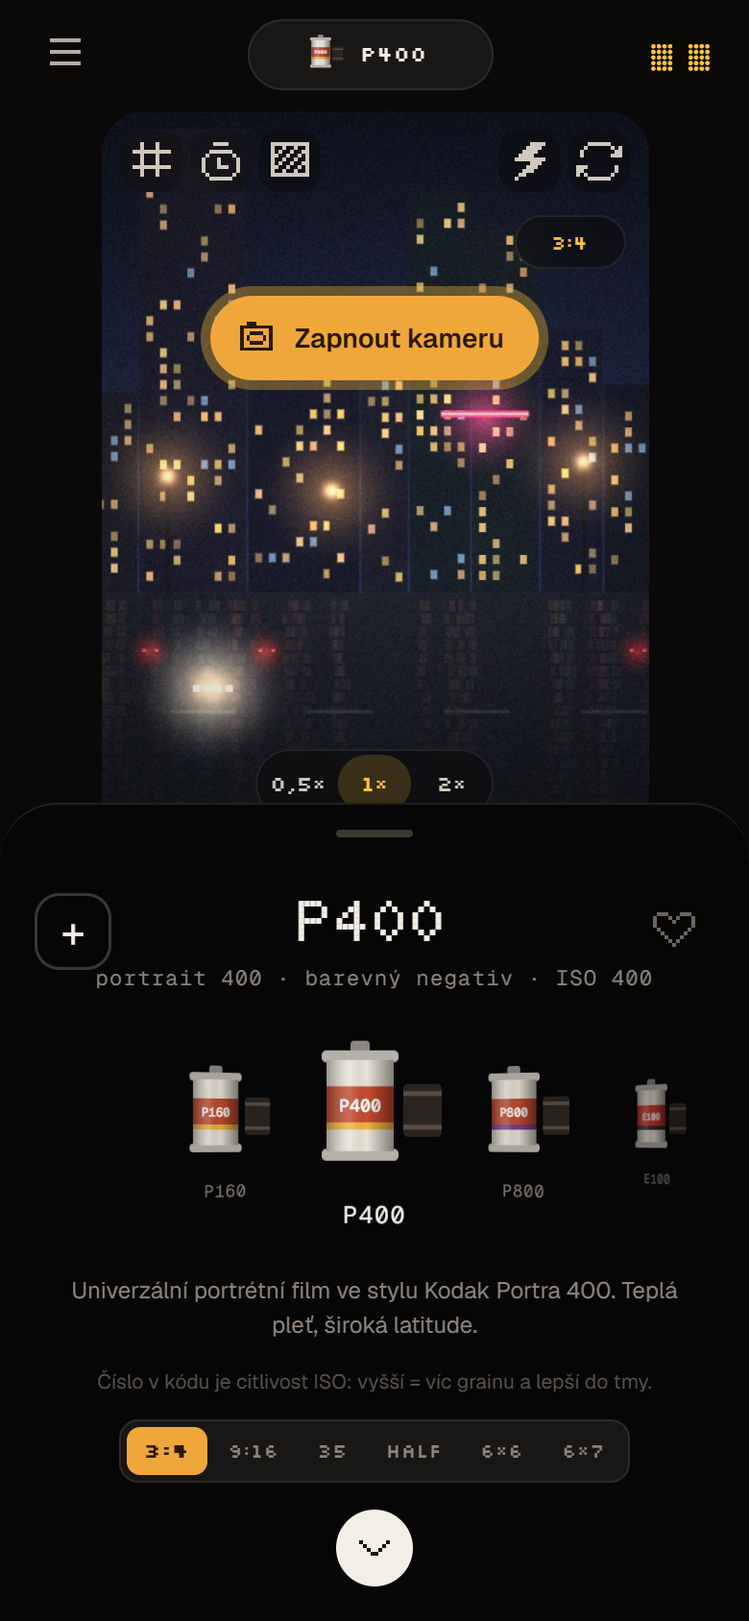
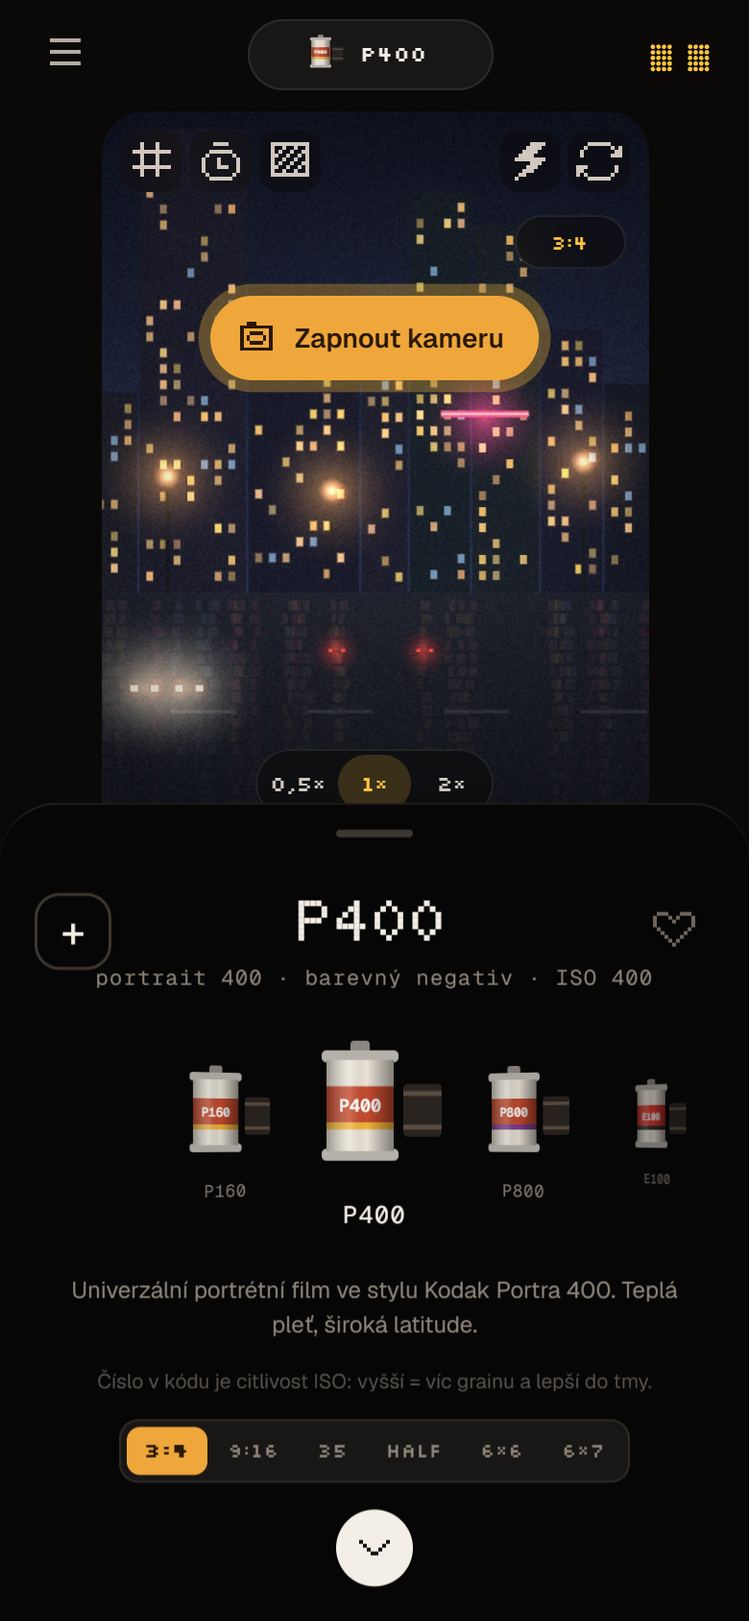
Náhled 0.16: posuvníky (scroll, tažení, dvojťuk), viditelná halation, IR bez ořezu světel, LiDAR video s postupem, uložit film jako variantu, přechody panelu

diff --git a/docs/preview/index.html b/docs/preview/index.html
@@ -135,6 +135,7 @@ a{color:var(--amber)}
 .fxp .sq{width:34px;height:34px;flex:none;border-radius:10px;border:1px solid var(--line);color:var(--fg);font-size:14px;display:grid;place-items:center}
 .fxh b{font-family:var(--f-mono);font-size:11px;letter-spacing:.16em;color:#cfc7bc;font-weight:500}
 .fxh .ib{width:34px;height:34px}
+.fpbtns{justify-self:end;display:flex;gap:6px}.fpbtns .off.sq{width:30px;padding:0;display:grid;place-items:center}.fpbtns .px{width:16px;height:16px}
 .fxh .off{height:30px;padding:0 12px;border-radius:10px;border:1px solid var(--line);font-size:12px;color:#cfc7bc}
 .fxrow{display:flex;align-items:center;gap:8px;min-height:34px;flex:none}
 .fxrow .hs{display:flex;gap:6px;overflow-x:auto;flex:1;min-width:0}
@@ -459,14 +460,21 @@ a{color:var(--amber)}
 .hsldots button.on{box-shadow:0 0 0 2px var(--panel),0 0 0 4px var(--fg)}
 .srow{display:grid;grid-template-columns:84px 1fr 40px;align-items:center;gap:10px;font-size:12px;color:#bdb5aa;height:32px}
 .srow output{font-family:var(--f-mono);font-size:11px;text-align:right;color:var(--fg);font-variant-numeric:tabular-nums}
-input[type=range]{-webkit-appearance:none;appearance:none;width:100%;height:34px;background:transparent;margin:0;cursor:pointer;touch-action:none;-webkit-user-select:none;user-select:none;--lo:0%;--hi:0%;
-  --trk:linear-gradient(90deg,#2f2b27 var(--lo),var(--amber) var(--lo),var(--amber) var(--hi),#2f2b27 var(--hi))}
-input[type=range]::-webkit-slider-runnable-track{height:2px;border-radius:2px;background:var(--trk)}
-input[type=range]::-moz-range-track{height:2px;border-radius:2px;background:var(--trk)}
-input[type=range]::-webkit-slider-thumb{-webkit-appearance:none;width:12px;height:24px;border-radius:6px;background:#f3eee6;margin-top:-11px;box-shadow:0 0 0 3px rgba(18,17,16,.9),0 2px 8px rgba(0,0,0,.6);transition:transform .15s}
-input[type=range]::-moz-range-thumb{width:8px;height:20px;border:0;border-radius:4px;background:#f3eee6;box-shadow:0 0 0 3px rgba(18,17,16,.9)}
-input[type=range]:active::-webkit-slider-thumb{transform:scaleY(1.15);background:var(--amber)}
-input[type=range]:hover::-webkit-slider-thumb{background:#fff}
+input[type=range]{-webkit-appearance:none;appearance:none;width:100%;height:34px;background:transparent;margin:0;pointer-events:none;touch-action:pan-y;-webkit-user-select:none;user-select:none;--lo:0%;--hi:0%;
+  --trk:linear-gradient(90deg,rgba(255,255,255,.08) var(--lo),var(--amber) var(--lo),var(--amber) var(--hi),rgba(255,255,255,.08) var(--hi))}
+input[type=range]::-webkit-slider-runnable-track{height:4px;border-radius:4px;background:var(--trk);box-shadow:inset 0 1px 1px rgba(0,0,0,.45)}
+input[type=range]::-moz-range-track{height:4px;border-radius:4px;background:var(--trk)}
+input[type=range]::-webkit-slider-thumb{-webkit-appearance:none;width:20px;height:20px;border-radius:50%;margin-top:-8px;background:radial-gradient(circle at 50% 32%,#fffaf2,#e2dacd 72%);
+  box-shadow:0 0 0 1px rgba(0,0,0,.4),0 3px 10px rgba(0,0,0,.55),inset 0 -1px 1px rgba(0,0,0,.18);transition:transform .22s cubic-bezier(.3,1.7,.5,1),box-shadow .22s}
+input[type=range]::-moz-range-thumb{width:20px;height:20px;border:0;border-radius:50%;background:#f3eee6;box-shadow:0 0 0 1px rgba(0,0,0,.4),0 3px 10px rgba(0,0,0,.55)}
+input[type=range].drag::-webkit-slider-thumb{transform:scale(1.16);box-shadow:0 0 0 5px rgba(255,196,61,.18),0 0 16px rgba(255,196,61,.4),0 3px 10px rgba(0,0,0,.55)}
+.srow:hover input[type=range]::-webkit-slider-thumb{background:radial-gradient(circle at 50% 32%,#fff,#efe8dc 72%)}
+.srow{-webkit-user-select:none;user-select:none;-webkit-touch-callout:none;touch-action:pan-y;cursor:default}
+.srow:has(input[type=range]){cursor:ew-resize}
+.srow>span{white-space:nowrap;overflow:hidden;text-overflow:ellipsis;transition:color .2s}
+.srow output{transition:color .2s}
+.srow.drag>span,.srow.drag output{color:var(--amber)}
+.fxp .srow.fk{grid-template-columns:96px 1fr 34px}
 .wheels{display:grid;grid-template-columns:repeat(3,1fr);gap:8px;text-align:center}
 .wheel{position:relative;width:100%;aspect-ratio:1;border-radius:50%;touch-action:none;cursor:crosshair;
   background:radial-gradient(circle,#2a2622 0 8%,transparent 70%),conic-gradient(from 90deg,#e04848,#e0c048,#58d058,#48c8e0,#5058e0,#d048d0,#e04848);}
@@ -595,6 +603,7 @@ body > .xmod{position:fixed}
 .xh b{font:500 11px var(--f-mono);letter-spacing:.18em;text-transform:uppercase;color:#cfc7bc}
 .xh span{font:500 12px var(--f-mono);color:var(--mute);font-variant-numeric:tabular-nums}
 .xph{height:200px;border-radius:14px;background:#0b0a09;display:grid;place-items:center;overflow:hidden}
+.xph canvas{max-width:100%;max-height:100%;border-radius:6px;box-shadow:0 10px 30px rgba(0,0,0,.5)}
 .xph img{max-width:100%;max-height:100%;border-radius:6px;transition:opacity .25s;box-shadow:0 10px 30px rgba(0,0,0,.5)}
 .xbar{height:4px;border-radius:2px;background:#2a2622;overflow:hidden}
 .xbar i{display:block;height:100%;width:0;background:var(--amber);box-shadow:0 0 12px rgba(255,196,61,.7);transition:width .35s cubic-bezier(.3,.9,.4,1)}
@@ -1374,6 +1383,8 @@ vec3 hsv2rgb(vec3 c){ vec3 p=abs(fract(c.xxx+vec3(1.,2./3.,1./3.))*6.-3.); retur
 float luma(vec3 c){ return dot(c, vec3(.2126,.7152,.0722)); }
 vec2 qToUv(vec2 q){ float cs = cos(uRot), sn = sin(uRot); vec2 ts0 = vec2(textureSize(uTex,0)); float sar = ts0.x/ts0.y; vec2 v0 = q * uCover / uZoom; v0.x *= sar; v0 = mat2(cs,-sn,sn,cs) * v0; v0.x /= sar; return v0 + .5 + uOff; } // otočení bez zkosení
 /* zjednodušený vzhled pro rozmazané vrstvy (glow): stejné základní úpravy a film jako fotka, ať záře má barvy upravené fotky */
+float shd1(float v){ return min(v, .62) + .36 * (1. - exp(-max(v - .62, 0.) / .36)); } // měkké rameno: světla se plynule stáčí k bílé, neořežou se
+vec3 shd(vec3 v){ return vec3(shd1(v.r), shd1(v.g), shd1(v.b)); }
 vec3 lookOf(vec3 s){ vec3 l = pow(max(s, 0.), vec3(2.2)) * exp2(uExp) * vec3(1.+uTemp*.22, 1.+uTint*.1, 1.-uTemp*.22); vec3 c = pow(l/(1.+l*.06*uStr), vec3(1./2.2));
   c = (c-.5)*(1.+uCon*.55)+.5; c = mix(vec3(luma(c)), c, 1.+uSat); vec3 f = c;
   if (uLut > .5) f = texture(uLut3, clamp(f,0.,1.)*(32./33.) + .5/33.).rgb; if (uBW.r + uBW.g + uBW.b > .01) f = vec3(dot(clamp(f,0.,1.), uBW)) * uBTone;
@@ -1404,9 +1415,21 @@ void main(){
   if (uDOn > .5 && uDMode > 1.5 && uDMode < 2.5) { float fg = pow(clamp((uFocus - dep) / max(uFocus, .05), 0., 1.), 1.15) * uDAmt; lin = mix(lin, vec3(.74,.76,.8) * exp2(uExp) * .85, fg); } // mlha do hloubky
   /* halation = červenooranžová záře kolem světel (odraz od podložky filmu), bloom = měkká bílá záře světel */
   vec3 b1 = pow(textureLod(uTex,uv,3.).rgb, vec3(2.2)), b2 = pow(textureLod(uTex,uv,5.).rgb, vec3(2.2)), b3 = pow(textureLod(uTex,uv,6.5).rgb, vec3(2.2));
-  float hl = max(luma(b1)-.42,0.)*1.4 + max(luma(b2)-.3,0.)*1.9;
-  if (uDOn > .5 && uDMode > 2.5 && uDMode < 3.5) { float dl = textureLod(uDepth, uv, 3.5).r; hl *= smoothstep(uFocus, uFocus - .3, dl) * (1. + uDAmt * 2.5); } // halation jen u vzdálených světel
-  lin += vec3(1.,.26,.07)*hl*1.1 * uHal * exp2(uExp);
+  bool dHal = uDOn > .5 && uDMode > 2.5 && uDMode < 3.5;
+  if (uHal > .001 || dHal) { /* halation: nejdřív práh (jen opravdová světla), pak rozmazání – 3 prstence vzorků kolem pixelu;
+       mipmapa by malá světla (lampy, slunce v listí) rozmazala pod práh a záře by zmizela */
+    vec2 tsz = vec2(textureSize(uTex,0)), ak = vec2(tsz.y / tsz.x, 1.); float hr = 0.;
+    float L1 = log2(max(1., .007 * tsz.y)), L2 = log2(max(1., .017 * tsz.y)), L3 = log2(max(1., .04 * tsz.y)); // rozmazání vzorku ≈ rozestup vzorků → hladká záře bez „duchů“
+    float jr = hash(floor(uv * tsz)) * .6283; // náhodné natočení prstenců na pixel → žádné tečky po vzorcích
+    for (int i = 0; i < 10; i++) { float a = float(i) * .6283 + jr; vec2 d = vec2(cos(a), sin(a)) * ak, e = vec2(cos(a + .314), sin(a + .314)) * ak;
+      hr += smoothstep(.4, .9, luma(pow(textureLod(uTex, uv + d * .01, L1).rgb, vec3(2.2)))) * .5
+          + smoothstep(.34, .85, luma(pow(textureLod(uTex, uv + e * .024, L2).rgb, vec3(2.2)))) * .38
+          + smoothstep(.28, .8, luma(pow(textureLod(uTex, uv + d * .055, L3).rgb, vec3(2.2)))) * .26; }
+    hr /= 10.; float self = smoothstep(.4, .9, luma(pow(textureLod(uTex, uv, .5).rgb, vec3(2.2))));
+    float hl = max(hr - self * 1.05, 0.) + hr * .06; // záře kolem světla, samotné světlo (a velké světlé plochy) se nepřebarví
+    vec3 hcol = vec3(1., .2, .04) * exp2(uExp);
+    if (dHal) { float dl = textureLod(uDepth, uv, 3.5).r, far = smoothstep(uFocus, uFocus - .3, dl); hl *= far; lin += hcol * hl * (1. + uDAmt * 5.); } // halation jen u vzdálených světel
+    lin += hcol * hl * 5.5 * uHal; }
   lin += (max(b1-.35,0.)*.7 + max(b2-.22,0.)*1.1 + max(b3-.15,0.)*1.3) * uBloom * 1.6 * exp2(uExp);
   vec3 c = pow(lin/(1.+lin*.06*uStr), vec3(1./2.2)); // jemné stažení světel jen s filmem
   c = (c-.5)*(1.+uCon*.55)+.5;
@@ -1414,21 +1437,21 @@ void main(){
   vec3 f = c; float fl = clamp(luma(f),0.,1.);
   if (uIR > .5) { /* infra: odhad odrazivosti v IR (zeleň silně, nebe a voda slabě, oblaka a bílá vysoko) – plynulé váhy, žádné ostré masky
        barevné varianty = CIR jako Aerochrome: zobrazená červená = IR, zelená = viditelná červená, modrá = viditelná zelená */
-    vec3 x = clamp(f, 0., 1.); float lx = luma(x), sat0 = max(x.r, max(x.g, x.b)) - min(x.r, min(x.g, x.b));
+    vec3 x = shd(max(f, 0.)); float lx = luma(x), sat0 = max(x.r, max(x.g, x.b)) - min(x.r, min(x.g, x.b));
     float veg = smoothstep(-.02, .14, x.g - .5 * (x.r + x.b)) * smoothstep(.0, .16, sat0) + smoothstep(.0, .2, .5 * (x.r + x.g) - x.b) * smoothstep(.06, .3, sat0) * .45 * (1. - smoothstep(.0, .2, x.r - x.g)); veg = clamp(veg, 0., 1.);
     float blu = smoothstep(-.02, .2, x.b - .5 * (x.r + x.g)) * (1. - smoothstep(.72, .97, lx));          // modrá (nebe, voda) – v IR tmavá, oblaka ne
-    float ir = clamp(lx * .78 + veg * (.42 + .5 * lx) - blu * .32, 0., 1.);
+    float ir = shd1(max(lx * .78 + veg * (.42 + .5 * lx) - blu * .32, 0.));
     /* barví se jen to, co infra opravdu mění: listí a tráva (vysoká odrazivost) → červená, modrá → tyrkys, oblaka bílá, zbytek jen ztlumený */
     vec3 base = mix(vec3(lx), x, .45) * vec3(1.03, .97, .98);
     vec3 fol = mix(vec3(.78, .05, .12), vec3(1., .42, .46), smoothstep(.45, 1., ir)) * (.55 + .5 * ir);
     vec3 sk = vec3(.22, .64, .66) * (.55 + .55 * lx);
     vec3 cir = mix(base, fol, veg); cir = mix(cir, sk, blu * (1. - veg));
     if (uIR < 1.5) f = mix(cir, vec3(1., .88, .92), .32) * .9 + .07;                                         // IR: pastelová růžová
-    else if (uIR < 2.5) { float g = clamp(ir * 1.08 - blu * .2, 0., 1.); f = vec3(g * g * (3. - 2. * g) * .35 + g * .65); } // IR400: ČB, Woodův efekt
+    else if (uIR < 2.5) { float g = shd1(max(ir * 1.08 - blu * .2, 0.)); f = vec3(g * g * (3. - 2. * g) * .35 + g * .65); } // IR400: ČB, Woodův efekt
     else if (uIR < 3.5) f = cir;                                                                             // IRC: sytá červená infra
-    else { float g = clamp(ir * 1.05 - blu * .15, 0., 1.); vec3 hue = uIRHue > .5 ? vec3(1., .72, .18) : vec3(1., .16, .2);  // IRR / IRG: ČB + listí v jedné barvě
+    else { float g = shd1(max(ir * 1.05 - blu * .15, 0.)); vec3 hue = uIRHue > .5 ? vec3(1., .72, .18) : vec3(1., .16, .2);  // IRR / IRG: ČB + listí v jedné barvě
       f = mix(vec3(g), hue * (.35 + g * .85), veg * .92); }
-    fl = clamp(luma(f),0.,1.); }
+    f = shd(max(f, 0.)) * .97; fl = clamp(luma(f),0.,1.); }
   if (uBW.r + uBW.g + uBW.b > .01) { // černobílý film: spektrální citlivost emulze (kanálový mix), charakteristická křivka, tón papíru
     float y = clamp(dot(clamp(f, 0., 1.), uBW), 0., 1.); y = (y - .5) * uFCon + .5; y = mix(y, y * y * (3. - 2. * y), clamp(uFCon - .9, 0., .6));
     y = uBToe + clamp(y, 0., 1.) * (1. - uBToe - uFFade * .4); f = vec3(y) * uBTone; fl = y;
@@ -1529,9 +1552,9 @@ class Engine {
       const at = (arr, v) => arr[clamp(Math.round(v * 255), 0, 255)];
       for (let i = 0; i < 256; i++) { const v = m[i]; d[i * 4] = at(cr, v) * 255; d[i * 4 + 1] = at(cg, v) * 255; d[i * 4 + 2] = at(cb, v) * 255; d[i * 4 + 3] = 255; }
       gl.activeTexture(gl.TEXTURE1); gl.bindTexture(gl.TEXTURE_2D, this.ctex); gl.pixelStorei(gl.UNPACK_FLIP_Y_WEBGL, false); gl.texImage2D(gl.TEXTURE_2D, 0, gl.RGBA, 256, 1, 0, gl.RGBA, gl.UNSIGNED_BYTE, d); gl.pixelStorei(gl.UNPACK_FLIP_Y_WEBGL, true); }
-    const L = !o.noLut && LUTD[P.film]; // LUT filmu (3D textura, každý WebGL kontext má svoji)
-    if (L) { let t = this.luts[P.film]; gl.activeTexture(gl.TEXTURE3);
-      if (!t) { t = this.luts[P.film] = gl.createTexture(); gl.bindTexture(gl.TEXTURE_3D, t); [gl.TEXTURE_MIN_FILTER, gl.TEXTURE_MAG_FILTER].forEach(k => gl.texParameteri(gl.TEXTURE_3D, k, gl.LINEAR)); [gl.TEXTURE_WRAP_S, gl.TEXTURE_WRAP_T, gl.TEXTURE_WRAP_R].forEach(k => gl.texParameteri(gl.TEXTURE_3D, k, gl.CLAMP_TO_EDGE));
+    const lk = f.base || P.film, L = !o.noLut && LUTD[lk]; // LUT filmu (varianta bere LUT základního filmu) (3D textura, každý WebGL kontext má svoji)
+    if (L) { let t = this.luts[lk]; gl.activeTexture(gl.TEXTURE3);
+      if (!t) { t = this.luts[lk] = gl.createTexture(); gl.bindTexture(gl.TEXTURE_3D, t); [gl.TEXTURE_MIN_FILTER, gl.TEXTURE_MAG_FILTER].forEach(k => gl.texParameteri(gl.TEXTURE_3D, k, gl.LINEAR)); [gl.TEXTURE_WRAP_S, gl.TEXTURE_WRAP_T, gl.TEXTURE_WRAP_R].forEach(k => gl.texParameteri(gl.TEXTURE_3D, k, gl.CLAMP_TO_EDGE));
         gl.pixelStorei(gl.UNPACK_FLIP_Y_WEBGL, false); gl.texImage3D(gl.TEXTURE_3D, 0, gl.RGBA8, LUTN, LUTN, LUTN, 0, gl.RGBA, gl.UNSIGNED_BYTE, L); gl.pixelStorei(gl.UNPACK_FLIP_Y_WEBGL, true); }
       else gl.bindTexture(gl.TEXTURE_3D, t); }
     gl.uniform1f(u.uLut, L ? 1 : 0);
@@ -1547,9 +1570,10 @@ class Engine {
     gl.uniform1f(u.uZoom, o.zoom || 1); gl.uniform1f(u.uRot, o.rot || 0); gl.uniform1f(u.uTime, o.time || 0); gl.uniform1f(u.uBypass, o.bypass ? 1 : 0); gl.uniform1f(u.uStatic, o.time == null ? 1 : 0);
     const isoK = Math.sqrt((o.iso || f.iso) / 400);
     gl.uniform1f(u.uExp, P.exp); gl.uniform1f(u.uTemp, P.temp); gl.uniform1f(u.uTint, P.tint); gl.uniform1f(u.uCon, P.con); gl.uniform1f(u.uSat, P.sat);
-    const k = P.film === 'NONE' ? 0 : clamp(P.str, 0, 1); // síla filmu řídí celý filmový vzhled – při 0 % je fotka původní (zůstanou jen Úpravy)
-    gl.uniform1f(u.uStr, k); gl.uniform1f(u.uFSoft, (P.fsoft || 0) * k); gl.uniform1f(u.uHal, P.hal * f.hal * k); gl.uniform1f(u.uBloom, P.bloom * k);
-    gl.uniform1f(u.uGrain, P.grain * G.a * (.6 + .4 * isoK) * k); gl.uniform1f(u.uGFreq, 560 / P.gsize * G.f / (.72 + .38 * isoK));
+    const vm = f.vm || { str: 1, bloom: 1, grain: 1, gsize: 1 }; // vlastní varianta filmu = násobky nastavení
+    const k = P.film === 'NONE' ? 0 : clamp(P.str * vm.str, 0, 1); // síla filmu řídí celý filmový vzhled – při 0 % je fotka původní (zůstanou jen Úpravy)
+    gl.uniform1f(u.uStr, k); gl.uniform1f(u.uFSoft, (P.fsoft ?? f.fsoft ?? 0) * k); gl.uniform1f(u.uHal, P.hal * f.hal * k); gl.uniform1f(u.uBloom, P.bloom * vm.bloom * k);
+    gl.uniform1f(u.uGrain, P.grain * vm.grain * G.a * (.6 + .4 * isoK) * k); gl.uniform1f(u.uGFreq, 560 / (P.gsize * vm.gsize) * G.f / (.72 + .38 * isoK));
     gl.uniform1f(u.uSeed, o.seed != null ? o.seed : 7); gl.uniform1f(u.uGSharp, G.sh); gl.uniform1f(u.uGChroma, G.ch); gl.uniform1f(u.uGClump, G.cl); gl.uniform1f(u.uGMot, G.mot);
     gl.uniform1f(u.uVig, P.vig * k); gl.uniform1f(u.uFade, P.fade); gl.uniform1f(u.uSharp, P.sharp);
     gl.uniform1f(u.uChar, P.chr ?? f.chr ?? .6); gl.uniform3fv(u.uBW, f.bw || [0, 0, 0]); gl.uniform3fv(u.uBTone, f.tone || [1, 1, 1]); gl.uniform1f(u.uBToe, f.toe || 0);
@@ -1573,7 +1597,7 @@ const util = { e: null };
 const LUTN = 33, LUTD = {};
 async function loadLuts() {
   if (location.protocol === 'file:') return; // z disku se PNG nedá přečíst – zůstane jednoduchý shader
-  await Promise.all(FILMS.filter(f => !f.ir && !f.scan && !f.bw).map(async f => { try {
+  await Promise.all(FILMS.filter(f => !f.ir && !f.scan && !f.bw && !f.own).map(async f => { try {
     const res = await fetch(`../../luts/${encodeURIComponent(f.code)}.png`); if (!res.ok) return;
     const bm = await createImageBitmap(await res.blob(), { colorSpaceConversion: 'none', premultiplyAlpha: 'none' }), n = LUTN, c = mk(bm.width, bm.height), g = c.getContext('2d', { willReadFrequently: true }); g.drawImage(bm, 0, 0);
     const d = g.getImageData(0, 0, bm.width, bm.height).data, out = new Uint8Array(n * n * n * 4);
@@ -2047,7 +2071,7 @@ function setFilm(code) {
   S.film = code; store.set('film', code); const f = FILM[code];
   $('#chipCode').textContent = code; $('#chipCass').innerHTML = cassette(f); $('#cassBtn').innerHTML = cassette(f);
   const kind = /E-6|K-14/.test(f.chem) ? 'diapozitiv' : /ECN/.test(f.chem) ? 'kinofilm' : 'barevný negativ';
-  $('#fCode').textContent = code; $('#fSub').innerHTML = `${f.sub} · ${f.scan ? 'vlastní film' : f.ir ? 'infračervený' : kind} · ISO ${f.iso}`; $('#fDesc').textContent = f.desc;
+  $('#fCode').textContent = code; $('#fSub').innerHTML = `${f.sub} · ${isOwn(f) ? 'vlastní film' : f.ir ? 'infračervený' : kind} · ISO ${f.iso}`; $('#fDesc').textContent = f.desc;
   updLcd(); updFav();
 }
 function updFav() { const b = $('#favBtn'), on = FAV.includes(S.film); b.innerHTML = iconSVG(on ? 'heart' : 'heartO'); b.classList.toggle('on', on); }
@@ -2063,7 +2087,7 @@ function buildCarousel() {
     items.forEach(it => it.classList.toggle('on', it === best));
     if (best && best.dataset.c !== S.film) { S.camRecipe = null; setFilm(best.dataset.c); buzz(4); }
   };
-  $$('.citem', c).forEach(it => { const f = FILM[it.dataset.c]; if (f && f.scan) longPress(it, () => filmActs(f.code)); });
+  $$('.citem', c).forEach(it => { const f = FILM[it.dataset.c]; if (isOwn(f)) longPress(it, () => filmActs(f.code)); });
   c._sync = () => { const it = $$('.citem', c).find(i => i.dataset.c === S.film); if (it) c.scrollLeft = it.offsetLeft + it.offsetWidth / 2 - c.clientWidth / 2; upd(); };
   if (c._init) return; c._init = true;
   c.addEventListener('scroll', () => requestAnimationFrame(upd), { passive: true });
@@ -2567,15 +2591,31 @@ function lidarDrag(el, after) { let st = null;
   const up = () => { if (!st) return; st = null; commit(); if (S.view === 'pc') buildPcRight(); else if (S.fxOpen === 'lidar') setTab('fx', true); };
   el.addEventListener('pointerup', up); el.addEventListener('pointercancel', up); }
 async function lidarVideo() { const ph = S.cur, L = S.P.lidar; if (!ph || !L || !ph.depth) return;
-  const src = copyCanvas(utilRender(srcOf(ph, S.P), Object.assign({}, S.P, { lidar: null }), 1080, Math.round(1080 / phAr(ph)), { depth: ph.depth })), W = 1080, H = Math.round(1080 / phAr(ph)) & ~1, c = mk(W, H), g = c.getContext('2d');
   const types = ['video/mp4;codecs=avc1', 'video/mp4', 'video/webm;codecs=vp9', 'video/webm'], type = types.find(t => window.MediaRecorder && MediaRecorder.isTypeSupported(t));
-  if (!type) return toast('Tenhle prohlížeč neumí nahrát video'); const stream = c.captureStream(30), rec = new MediaRecorder(stream, { mimeType: type, videoBitsPerSecond: 8e6 }), chunks = [];
-  rec.ondataavailable = e => e.data.size && chunks.push(e.data); toast('Nahrávám 4 s smyčku…'); rec.start();
-  const t0 = performance.now(), base = L.yaw || 0; await new Promise(res => { const step = () => { const t = (performance.now() - t0) / 4000; if (t >= 1) return res();
-    g.drawImage(lidarRender(src, ph.depth, W, H, Object.assign({}, L, { yaw: base + 28 * Math.sin(t * Math.PI * 2), pitch: (L.pitch || 0) + 6 * Math.sin(t * Math.PI * 4) })), 0, 0); requestAnimationFrame(step); }; step(); });
-  rec.stop(); await new Promise(r => rec.onstop = r); const ext = type.includes('mp4') ? 'mp4' : 'webm', blob = new Blob(chunks, { type: type.split(';')[0] }), file = new File([blob], `qamera-lidar-${Date.now()}.${ext}`, { type: blob.type });
-  try { if (isMobile() && navigator.canShare && navigator.canShare({ files: [file] })) { await navigator.share({ files: [file] }); return; } } catch (e) { if (e && e.name === 'AbortError') return; }
-  const a = document.createElement('a'); a.href = URL.createObjectURL(blob); a.download = file.name; document.body.appendChild(a); a.click(); setTimeout(() => { URL.revokeObjectURL(a.href); a.remove(); }, 2000); toast('Video uložené'); }
+  if (!type) return toast('Tenhle prohlížeč neumí nahrát video');
+  const host = document.body.classList.contains('pcapp') && !document.body.classList.contains('pcphone') ? document.body : $('#phone'), el = document.createElement('div'); el.className = 'xmod';
+  el.innerHTML = `<div class="xcard"><div class="xh"><b>LiDAR video</b><span>4 s · 30 fps</span></div><div class="xph"><canvas id="xCv"></canvas></div>
+    <div class="xbar"><i id="xBar"></i></div><div class="xrow"><span id="xSt">Připravuju mračno bodů…</span><span id="xPct">0 %</span></div>
+    <div class="xbtns"><button class="pbtn ghost" id="xCancel">Zrušit</button><button class="pbtn" id="xGo" hidden>Uložit video</button></div></div>`;
+  host.appendChild(el); requestAnimationFrame(() => el.classList.add('on')); buzz(5);
+  let cancel = false; const close = () => { el.classList.remove('on'); setTimeout(() => el.remove(), 300); };
+  $('#xCancel', el).onclick = () => { cancel = true; close(); };
+  const setP = (v, txt) => { const pc = Math.round(v * 100); $('#xBar', el).style.width = pc + '%'; $('#xPct', el).textContent = pc + ' %'; if (txt) $('#xSt', el).textContent = txt; };
+  await new Promise(r => setTimeout(r, 80)); if (cancel) return; // okno se ukáže dřív, než se začne počítat
+  const W = 1080, H = Math.round(1080 / phAr(ph)) & ~1, src = copyCanvas(utilRender(srcOf(ph, S.P), Object.assign({}, S.P, { lidar: null }), W, H, { depth: ph.depth })), c = mk(W, H), g = c.getContext('2d');
+  const pv = $('#xCv', el), pk = Math.min(1, 200 / H, 280 / W); pv.width = Math.round(W * pk); pv.height = Math.round(H * pk); const pg = pv.getContext('2d');
+  setP(.05, 'Nahrávám smyčku'); const stream = c.captureStream(30), rec = new MediaRecorder(stream, { mimeType: type, videoBitsPerSecond: 8e6 }), chunks = [];
+  rec.ondataavailable = e => e.data.size && chunks.push(e.data); rec.start();
+  const t0 = performance.now(), base = L.yaw || 0; await new Promise(res => { const step = () => { const t = (performance.now() - t0) / 4000; if (t >= 1 || cancel) return res();
+    g.drawImage(lidarRender(src, ph.depth, W, H, Object.assign({}, L, { yaw: base + 28 * Math.sin(t * Math.PI * 2), pitch: (L.pitch || 0) + 6 * Math.sin(t * Math.PI * 4) })), 0, 0);
+    pg.drawImage(c, 0, 0, pv.width, pv.height); setP(.05 + .85 * t, `Nahrávám ${(t * 4).toFixed(1).replace('.', ',')} / 4 s`); requestAnimationFrame(step); }; step(); });
+  setP(.92, 'Dokončuju video'); rec.stop(); await new Promise(r => rec.onstop = r); if (cancel) return;
+  const ext = type.includes('mp4') ? 'mp4' : 'webm', blob = new Blob(chunks, { type: type.split(';')[0] }), file = new File([blob], `qamera-lidar-${Date.now()}.${ext}`, { type: blob.type });
+  setP(1, `Hotovo · ${ext.toUpperCase()} · ${(blob.size / 1048576).toFixed(1).replace('.', ',')} MB`); el.classList.add('done'); buzz(12);
+  $('#xCancel', el).textContent = 'Zavřít'; $('#xCancel', el).onclick = close; const go = $('#xGo', el); go.hidden = false;
+  const save = () => { const a = document.createElement('a'); a.href = URL.createObjectURL(blob); a.download = file.name; document.body.appendChild(a); a.click(); setTimeout(() => { URL.revokeObjectURL(a.href); a.remove(); }, 2000); };
+  if (isMobile() && navigator.canShare && navigator.canShare({ files: [file] })) go.onclick = async () => { try { await navigator.share({ files: [file] }); close(); } catch (e) { if (e && e.name !== 'AbortError') toast('Sdílení se nepovedlo'); } }; // sdílení potřebuje čerstvé ťuknutí
+  else { save(); go.textContent = 'Stáhnout znovu'; go.onclick = save; } }
 function dateOverlay() { const cv = $('#eDate'); if (!cv || !S.cur) return; const r = S._pr || { x: 0, y: 0, w: 0, h: 0 }, k = Math.min(2, devicePixelRatio || 1), W = Math.round(r.w * k), H = Math.round(r.h * k);
   Object.assign(cv.style, { left: r.x + 'px', top: r.y + 'px', width: r.w + 'px', height: r.h + 'px' }); if (cv.width !== W || cv.height !== H) { cv.width = W; cv.height = H; }
   const g = cv.getContext('2d'); g.clearRect(0, 0, W, H); if (!W || before) return;
@@ -2736,15 +2776,23 @@ const ADJ = [
 ];
 const grainPills = () => Object.entries(GRAINS).map(([k, g]) => `<button class="gpill ${gtypeOf(S.P) === k ? 'on' : ''}" data-g="${k}" title="${g.d}">${g.l}</button>`).join('');
 function bindGrainPills(root, after) { $$('.gpill', root).forEach(b => b.onclick = () => { S.P.gtype = b.dataset.g; $$('.gpill', root).forEach(x => x.classList.toggle('on', x === b)); renderEd(); commit(); buzz(4); toast(`Grain ${GRAINS[b.dataset.g].l}: ${GRAINS[b.dataset.g].d}`); after && after(); }); }
+const TAB_I = { film: 0, adj: 1, crop: 2, fx: 3 };
+/* panel se při změně záložky / zanoření nepřekreslí natvrdo: obsah přijede ze strany (pružně), řádky s mírným zpožděním */
+function panelAnim(p) { const deep = (S.tab === 'film' && S.filmOpen) || (S.tab === 'fx' && !!S.fxOpen), key = (S.adv ? 'A' : S.tab) + (deep ? '>' + (S.fxOpen || 'f') : '');
+  const old = p._mk; p._mk = { key, t: S.tab, deep, adv: S.adv }; if (!old || old.key === key || LOWMO || !p.animate) return;
+  const dir = old.adv !== S.adv ? 0 : old.t !== S.tab ? Math.sign(TAB_I[S.tab] - TAB_I[old.t]) : deep ? 1 : -1;
+  const kids = [...p.children], rows = $$('.fxp > *, .chips > *, .fthumb, .fx > button, .aspects > button', p).slice(0, 14), E = 'cubic-bezier(.16,1,.3,1)';
+  kids.forEach(k => k.animate([{ opacity: 0, transform: `translate3d(${dir * 28}px,${dir ? 0 : 10}px,0)` }, { opacity: 1, transform: 'none' }], { duration: 420, easing: E }));
+  rows.forEach((k, i) => k.animate([{ opacity: 0, transform: `translate3d(${dir * 14}px,6px,0)` }, { opacity: 1, transform: 'none' }], { duration: 460, delay: 30 + i * 24, easing: E, fill: 'backwards' })); }
 function setTab(t, quiet) {
   S.tab = t; $$('#eTabs button').forEach(b => b.classList.toggle('on', b.dataset.t === t));
   const p = $('#ePanel'); $('#cropLayer').hidden = t !== 'crop' || S.adv;
-  if (S.adv) { renderAdv(); sizePanel(quiet); return; }
+  if (S.adv) { renderAdv(); panelAnim(p); sizePanel(quiet); return; }
   if (t === 'film' && S.filmOpen && FILM[S.P.film] && S.P.film !== 'NONE') { renderFilmPanel(p);
   } else if (t === 'film') {
     p.innerHTML = `<div class="ruler" id="strR"></div><div class="strip" id="fStrip">${filmsOrdered().map(f => `<button class="fthumb ${f.code === S.P.film ? 'on' : ''} ${FAV.includes(f.code) ? 'fav' : ''}" data-c="${f.code}"><canvas width="128" height="160"></canvas><span>${f.code}</span></button>`).join('')}</div>`;
     makeRuler($('#strR'), { min: 0, max: 1, step: .01, value: S.P.str, label: S.P.film === 'NONE' ? 'Bez filmu' : 'Síla filmu · ' + S.P.film, fmt: v => Math.round(v * 100), def: 1, onInput: v => { S.P.str = v; renderEd(); }, onEnd: commit });
-    drawFilmThumbs(); hscroll($('#fStrip')); $$('.fthumb').forEach(b => { const f = FILM[b.dataset.c]; if (f && f.scan) longPress(b, () => filmActs(f.code)); });
+    drawFilmThumbs(); hscroll($('#fStrip')); $$('.fthumb').forEach(b => { const f = FILM[b.dataset.c]; if (isOwn(f)) longPress(b, () => filmActs(f.code)); });
     $$('.fthumb').forEach(b => b.onclick = () => { if (S.P.film === b.dataset.c) { S.filmOpen = true; setTab('film', true); buzz(6); return; } S.P.film = b.dataset.c; $$('.fthumb').forEach(x => x.classList.toggle('on', x === b)); $('#strR .rl').textContent = 'Síla filmu · ' + S.P.film; renderEd(); commit(); buzz(4);
       spring(.9, 1, v => b.querySelector('canvas').style.transform = `scale(${v})`, { k: 300, c: 14 }); });
     requestAnimationFrame(() => { const on = $('.fthumb.on'), s = $('#fStrip'); if (on && s) s.scrollLeft = on.offsetLeft - s.clientWidth / 2 + on.offsetWidth / 2; });
@@ -2775,7 +2823,7 @@ function setTab(t, quiet) {
     hscroll($('#fxRow'));
     $$('[data-fx]', p).forEach(b => b.onclick = () => fxClick(b));
   }
-  sizePanel(quiet);
+  panelAnim(p); sizePanel(quiet);
 }
 function fxClick(b) {
   const k = b.dataset.fx;
@@ -2918,13 +2966,28 @@ function heavyRender() { if (S.depthMs != null && S.depthMs < 45) { renderEd(tru
 function renderFilmPanel(p) { const P = S.P, f = FILM[P.film], gl0 = f.gl ?? .12;
   const rows = [['str', 'Síla', 0, 100, Math.round(P.str * 100), 100], ['chr', 'Charakter', 0, 150, Math.round((P.chr ?? f.chr ?? .6) * 100), Math.round((f.chr ?? .6) * 100)], ['fsoft', 'Měkkost', 0, 100, Math.round((P.fsoft || 0) * 100), 0],
     ['hal', 'Halation', 0, 300, Math.round(P.hal * 100), 100], ['bloom', 'Bloom', 0, 150, Math.round(P.bloom * 100), 15], ['glow', 'Glow', 0, 150, Math.round((P.glow ?? gl0) * 100), Math.round(gl0 * 100)], ['grain', 'Grain', 0, 150, Math.round(P.grain * 100), 50], ['gsize', 'Velikost zrna', 50, 300, Math.round(P.gsize * 100), 100]];
-  p.innerHTML = `<div class="fxp"><div class="fxh"><button class="ib" id="fpBack" aria-label="Zpět na filmy">${iconSVG('back')}</button><b>FILM · ${f.code}</b><button class="off" id="fpDef">Výchozí</button></div>
-    ${rows.map(([k, l, a, b, v, d]) => `<label class="srow"><span>${l}</span><input type="range" data-fk="${k}" min="${a}" max="${b}" value="${v}" data-def="${d}"><output>${v}</output></label>`).join('')}</div>`;
+  p.innerHTML = `<div class="fxp"><div class="fxh"><button class="ib" id="fpBack" aria-label="Zpět na filmy">${iconSVG('back')}</button><b>FILM · ${f.code}</b><div class="fpbtns"><button class="off sq" id="fpSave" aria-label="Uložit jako vlastní film" title="Uložit jako vlastní film">${iconSVG('plus')}</button><button class="off" id="fpDef">Výchozí</button></div></div>
+    ${rows.map(([k, l, a, b, v, d]) => `<label class="srow fk"><span>${l}</span><input type="range" data-fk="${k}" min="${a}" max="${b}" value="${v}" data-def="${d}"><output>${v}</output></label>`).join('')}</div>`;
   $('#fpBack').onclick = () => { S.filmOpen = false; setTab('film', true); };
+  $('#fpSave').onclick = saveFilmVariant;
   $('#fpDef').onclick = () => { ['chr', 'fsoft', 'glow'].forEach(k => delete S.P[k]); Object.assign(S.P, { str: 1, hal: 1, bloom: .15, grain: .5, gsize: 1 }); renderEd(true); commit(); setTab('film', true); buzz(6); };
   $$('#ePanel [data-fk]').forEach(i => { paintRange(i); i.oninput = () => { const k = i.dataset.fk; S.P[k] = +i.value / 100; i.nextElementSibling.textContent = i.value; paintRange(i); renderEd(); }; i.onchange = commit;
     i.ondblclick = () => { i.value = i.dataset.def; i.oninput(); commit(); }; });
 }
+/* uloží aktuální nastavení filmu jako vlastní variantu (např. P400-JEM „portrait 400 · jemná“) – použitelná ve výběru filmů i ve foťáku */
+function saveFilmVariant() { const b = FILM[S.P.film]; if (!b || S.P.film === 'NONE') return;
+  openActs(`<h4>Uložit jako vlastní film · ${b.code}</h4><div class="rsave"><input id="fvName" value="vlastní" maxlength="14" autocomplete="off" placeholder="název, třeba jemná"><button class="go" id="fvGo">Uložit</button></div>`, root => {
+    const inp = $('#fvName', root); setTimeout(() => { inp.focus(); inp.select(); }, 350);
+    const go = () => { const nm = inp.value.trim() || 'vlastní', P = S.P, vm0 = b.vm || { str: 1, bloom: 1, grain: 1, gsize: 1 };
+      const tag = nm.normalize('NFD').replace(/[\u0300-\u036f]/g, '').toUpperCase().replace(/[^A-Z0-9]/g, '').slice(0, 3) || 'V', root0 = (b.base || b.code).slice(0, 5);
+      let code = root0 + '-' + tag, n = 2; while (FILM[code]) code = root0 + '-' + tag.slice(0, 2) + n++;
+      const nf = JSON.parse(JSON.stringify(b)); delete nf.fav;
+      Object.assign(nf, { code, own: 1, base: b.base || (b.scan ? undefined : b.code), sub: `${b.sub.split(' · ')[0]} · ${nm}`, desc: `Tvoje varianta filmu ${b.code} (${nm}). Podržením ji přejmenuješ, smažeš nebo vyexportuješ.`,
+        chr: P.chr ?? b.chr ?? .6, gl: P.glow ?? b.gl ?? .12, fsoft: P.fsoft ?? b.fsoft ?? 0, hal: P.hal * (b.hal ?? .3), g: gtypeOf(P),
+        vm: { str: clamp(P.str, 0, 1) * vm0.str, bloom: P.bloom / .15 * vm0.bloom, grain: P.grain / .5 * vm0.grain, gsize: P.gsize * vm0.gsize } });
+      addFilm(nf); saveScans(); ['chr', 'fsoft', 'glow', 'gtype'].forEach(k => delete P[k]); Object.assign(P, { film: code, str: 1, hal: 1, bloom: .15, grain: .5, gsize: 1 });
+      closeActs(); buildCarousel(); renderEd(true); commit(); setTab('film', true); buzz(12); toast(`Film ${code} uložený – najdeš ho ve filmech i ve foťáku`); };
+    $('#fvGo', root).onclick = go; inp.onkeydown = e => { if (e.key === 'Enter') go(); }; }); }
 function photoPal(n) { const P = JSON.parse(JSON.stringify(S.P)); P.style = null; P.grain = 0; utilRender(srcOf(S.cur, S.P), P, 60, 75, {}); return kmeans(util.e.pixels(), n).map(c => '#' + rgbOf(c).map(v => v.toString(16).padStart(2, '0')).join('')); }
 const DPALS = { amber: ['#0B0C0E', '#F5C542'], lime: ['#050505', '#D4FF3A'], paper: ['#1b1a18', '#F2EFE8'], ir: ['#1a0d2e', '#ff4f8b'] };
 function styleActs() {
@@ -2945,7 +3008,7 @@ function drawFilmThumbs() {
 }
 let panelSp = null;
 function sizePanel(instant) {
-  const p = $('#ePanel'), phoneH = $('#phone').clientHeight, target = S.adv ? Math.round(phoneH * .47) : PANEL_H;
+  const p = $('#ePanel'), phoneH = $('#phone').clientHeight, target = S.adv || (S.tab === 'film' && S.filmOpen && S.P.film !== 'NONE') ? Math.round(phoneH * .47) : PANEL_H; // nastavení filmu potřebuje víc místa (8 posuvníků)
   const from = p.offsetHeight; panelSp && panelSp.stop();
   if (from === target) return;
   if (instant || !from) { p.style.height = target + 'px'; layoutEditor(); return; }
@@ -3098,10 +3161,11 @@ function filmActs(code) {
     $('[data-a=del]', root).onclick = () => { closeActs(); deleteFilm(code); };
   });
 }
-const saveScans = () => store.set('scans', FILMS.filter(x => x.scan));
+const isOwn = f => !!(f && (f.scan || f.own)); // vlastní filmy: film scan i uložené varianty
+const saveScans = () => store.set('scans', FILMS.filter(isOwn));
 function refreshFilmUI() { buildCarousel(); $('#carousel')._sync(); if (S.screen === 'editor' && S.cur) { renderEd(true); setTab(S.tab, true); } }
 function renameFilm(a, b) {
-  if (a === b) return; const f = FILM[a]; delete FILM[a]; f.code = b; f.sub = 'film scan · ' + b.toLowerCase(); FILM[b] = f;
+  if (a === b) return; const f = FILM[a]; delete FILM[a]; f.code = b; if (!f.own) f.sub = 'film scan · ' + b.toLowerCase(); FILM[b] = f;
   S.photos.forEach(p => { if (p.P.film === a) { p.P.film = b; p.film = b; } }); if (S.P.film === a) S.P.film = b; if (S.film === a) setFilm(b);
   FAV = FAV.map(c => c === a ? b : c); store.set('fav', FAV); saveScans(); refreshFilmUI(); toast(`Film přejmenovaný na ${b}`);
 }
@@ -3138,7 +3202,7 @@ function openScan() {
 function saveScan() {
   const n = FILMS.filter(f => f.scan).length + 1, code = 'SCAN' + n; utilRender(refSrc, DEF(), 60, 75, { bypass: true }); const pal = kmeans(util.e.pixels(), 3);
   const f = { code, sub: 'film scan ' + n, chem: 'vlastní', desc: 'Tvůj vlastní film naskenovaný z reference. Podržením ho přejmenuješ, smažeš nebo vyexportuješ.', iso: 400, g: 'classic', sh: [0, 0, 0], hi: [1, 1, 1], con: 1, sat: 1, fade: .02, hal: .3, gl: .15, c: [pal[4] || pal[2], pal[2], pal[0]], scan: { m: refStats.m, s: refStats.s, k: SCAN.k } };
-  addFilm(f); store.set('scans', FILMS.filter(x => x.scan)); buildCarousel(); S.camRecipe = null; setFilm(code);
+  addFilm(f); saveScans(); buildCarousel(); S.camRecipe = null; setFilm(code);
   buzz(12); toast(`Film ${code} je ve výběru filmů`); goBack();
 }
 
@@ -3764,7 +3828,7 @@ function pcScanOpen() { ensureRef(); PCS.ref = refSrc; PCS.st = stats(PCS.ref); 
   $('#pcsCancel').onclick = () => m.hidden = true;
   $('#pcsSave').onclick = () => { refSrc = PCS.ref; refStats = PCS.st; SCAN.k = rg.value / 100; const n = FILMS.filter(f => f.scan).length + 1; utilRender(refSrc, DEF(), 60, 75, { bypass: true }); const pal = kmeans(util.e.pixels(), 3);
     const f = { code: 'SCAN' + n, sub: 'film scan ' + n, chem: 'vlastní', desc: 'Tvůj vlastní film naskenovaný z reference.', iso: 400, g: 'classic', sh: [0, 0, 0], hi: [1, 1, 1], con: 1, sat: 1, fade: .02, hal: .3, gl: .15, c: [pal[4] || pal[2], pal[2], pal[0]], scan: { m: refStats.m, s: refStats.s, k: SCAN.k } };
-    addFilm(f); store.set('scans', FILMS.filter(x => x.scan)); buildCarousel(); S.P.film = f.code; commit(); m.hidden = true; openPc(); toast(`Film ${f.code} uložený`); };
+    addFilm(f); saveScans(); buildCarousel(); S.P.film = f.code; commit(); m.hidden = true; openPc(); toast(`Film ${f.code} uložený`); };
 }
 function initPcApp() {
   $('#pcExport').onclick = () => exportMany(S.pcSel && S.pcSel.size ? S.photos.filter(p => S.pcSel.has(p.id)) : [S.cur]); $('#pcCube').onclick = () => exportLook('.cube');
@@ -3907,10 +3971,29 @@ function boot2(h) {
   $('#camBannerBack').onclick = () => { S.dxReturn = null; $('#camBanner').hidden = true; goBack(); };
   document.addEventListener('pointerdown', () => { lastAct = performance.now(); }, true);
   document.addEventListener('contextmenu', e => { if (!e.target.closest('input,[contenteditable]')) e.preventDefault(); });
-  document.addEventListener('pointerdown', e => { const rg = e.target.closest && e.target.closest('input[type=range]'); if (!rg) return; e.preventDefault(); rg.setPointerCapture(e.pointerId);
-    const set = ev => { const b = rg.getBoundingClientRect(), k = clamp((ev.clientX - b.left - 6) / (b.width - 12), 0, 1), mn = +rg.min, mx = +rg.max, st = +rg.step || 1, v = Math.round((mn + k * (mx - mn)) / st) * st; if (+rg.value !== v) { rg.value = v; rg.dispatchEvent(new Event('input', { bubbles: true })); } };
-    set(e); const mv = ev => set(ev), up = () => { rg.removeEventListener('pointermove', mv); rg.removeEventListener('pointerup', up); rg.removeEventListener('pointercancel', up); rg.dispatchEvent(new Event('change', { bubbles: true })); };
-    rg.addEventListener('pointermove', mv); rg.addEventListener('pointerup', up); rg.addEventListener('pointercancel', up); }, true);
+  /* posuvníky: celý řádek je úchyt. Prstem se táhne relativně (žádný skok na místo ťuknutí) a až po jasném vodorovném pohybu –
+     svislý pohyb scrolluje panel. Myší klik do dráhy skočí na místo. Dvojťuk / dvojklik = výchozí hodnota. */
+  let rgTap = null;
+  document.addEventListener('pointerdown', e => { if (e.button > 0) return;
+    const row = e.target.closest && e.target.closest('.srow'); if (!row || e.target.closest('button,select,textarea,a,.hs,input:not([type=range])')) return;
+    const rg = row.querySelector('input[type=range]'); if (!rg || rg.disabled) return;
+    const mn = +rg.min, mx = +rg.max, st = +rg.step || 1, TH = 20, b0 = rg.getBoundingClientRect(), span = Math.max(1, b0.width - TH), touch = e.pointerType !== 'mouse';
+    const fire = v => { v = clamp(Math.round((v - mn) / st) * st + mn, mn, mx); v = +v.toFixed(5); if (+rg.value !== v) { rg.value = v; rg.dispatchEvent(new Event('input', { bubbles: true })); } };
+    const x0 = e.clientX, y0 = e.clientY; let mode = touch ? 0 : 1, moved = false; // 0 = ještě nevíme, 1 = táhne, -1 = scroll / konec
+    const grab = () => { row.classList.add('drag'); rg.classList.add('drag'); };
+    if (!touch) { e.preventDefault(); if (x0 < b0.left - 6 || x0 > b0.right + 6) mode = 2; // myš na popisku: jen dvojklik
+      else { const thx = b0.left + TH / 2 + (+rg.value - mn) / (mx - mn) * span; if (Math.abs(x0 - thx) > TH * .7) fire(mn + clamp((x0 - b0.left - TH / 2) / span, 0, 1) * (mx - mn)); grab(); } }
+    const v0 = +rg.value;
+    const mv = ev => { if (ev.pointerId !== e.pointerId) return; const dx = ev.clientX - x0, dy = ev.clientY - y0;
+      if (mode === 0) { if (Math.abs(dx) > 7 && Math.abs(dx) > Math.abs(dy) * 1.15) { mode = 1; grab(); } else if (Math.abs(dy) > 9) return end(); else return; }
+      if (mode !== 1) return; moved = true; fire(v0 + (touch ? dx - Math.sign(dx) * 7 : dx) / span * (mx - mn)); };
+    const end = ev => { removeEventListener('pointermove', mv, true); removeEventListener('pointerup', end, true); removeEventListener('pointercancel', end, true);
+      row.classList.remove('drag'); rg.classList.remove('drag'); if (mode === 1) rg.dispatchEvent(new Event('change', { bubbles: true }));
+      if (ev && ev.type === 'pointerup' && !moved && Math.abs(ev.clientX - x0) < 9 && Math.abs(ev.clientY - y0) < 9) { const now = performance.now();
+        if (rgTap && rgTap.rg === rg && now - rgTap.t < 340) { rgTap = null; rg.dispatchEvent(new MouseEvent('dblclick', { bubbles: true })); } else rgTap = { rg, t: now }; }
+      mode = -1; };
+    addEventListener('pointermove', mv, true); addEventListener('pointerup', end, true); addEventListener('pointercancel', end, true); }, true);
+  document.addEventListener('click', e => { const l = e.target.closest && e.target.closest('label.srow'); if (l && l.querySelector('input[type=range]')) e.preventDefault(); }, true); // ťuknutí na popisek nefokusuje posuvník
   setCollapsed(!!S.collapsed, true); updFmt(); layoutVf();
   $('#navlist').innerHTML = NAV.map(([k, l, ic]) => `<button data-k="${k}">${iconSVG(ic)}${l}</button>`).join('');
   $$('#navlist button').forEach(b => b.onclick = () => navTo(b.dataset.k));

diff --git a/sw.js b/sw.js
@@ -1,5 +1,5 @@
 /* Qamera service worker – appka funguje i offline. Po větší změně zvýšit VERSION, ať se telefonům stáhne nová verze. */
-const VERSION = 'qamera-0.15.0';
+const VERSION = 'qamera-0.16.0';
 const SHELL = ['./', './docs/preview/', './docs/preview/index.html', './manifest.webmanifest', './icons/icon.svg', './icons/icon-192.png', './icons/apple-touch-icon.png', './luts/films.json'];
 
 self.addEventListener('install', e => {
